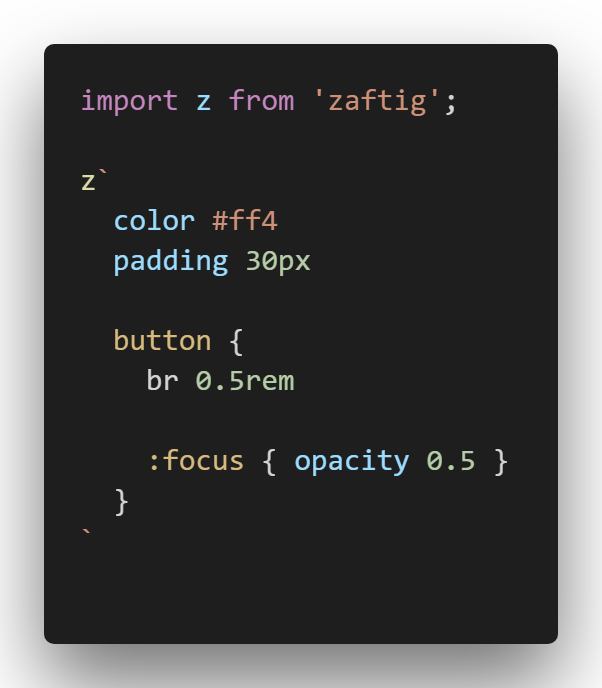
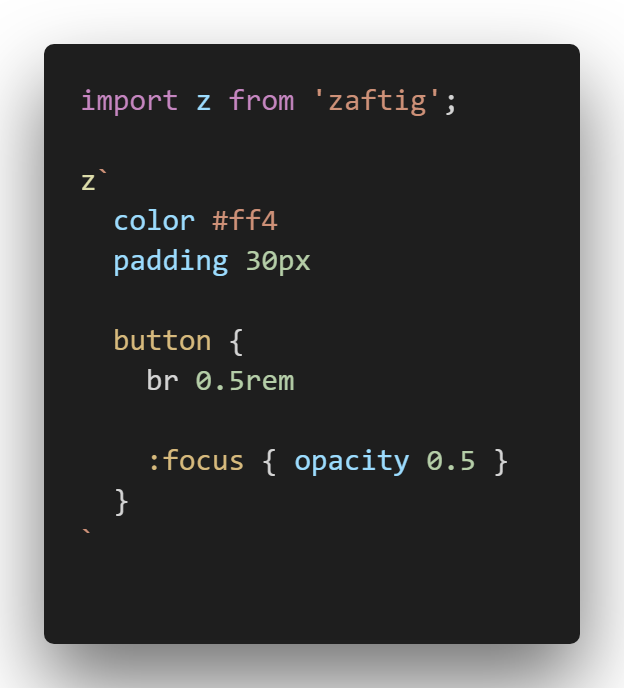
update images again

diff --git a/README.md b/README.md
@@ -2,9 +2,9 @@
 
 A VSCode extension that provides language grammar for lean CSS used by certain css in js libraries.
 
-<div style="display: flex; flex-direction: row">
-  <img src="/docs/before.png" alt="example before highlighting">
-  <img src="/docs/after.png" alt="example after highlighting">
+<div>
+  <img src="/docs/before.png" alt="example before highlighting" width="300">
+  <img src="/docs/after.png" alt="example after highlighting" width="300">
 </div>
 
 ## Supported Libraries
